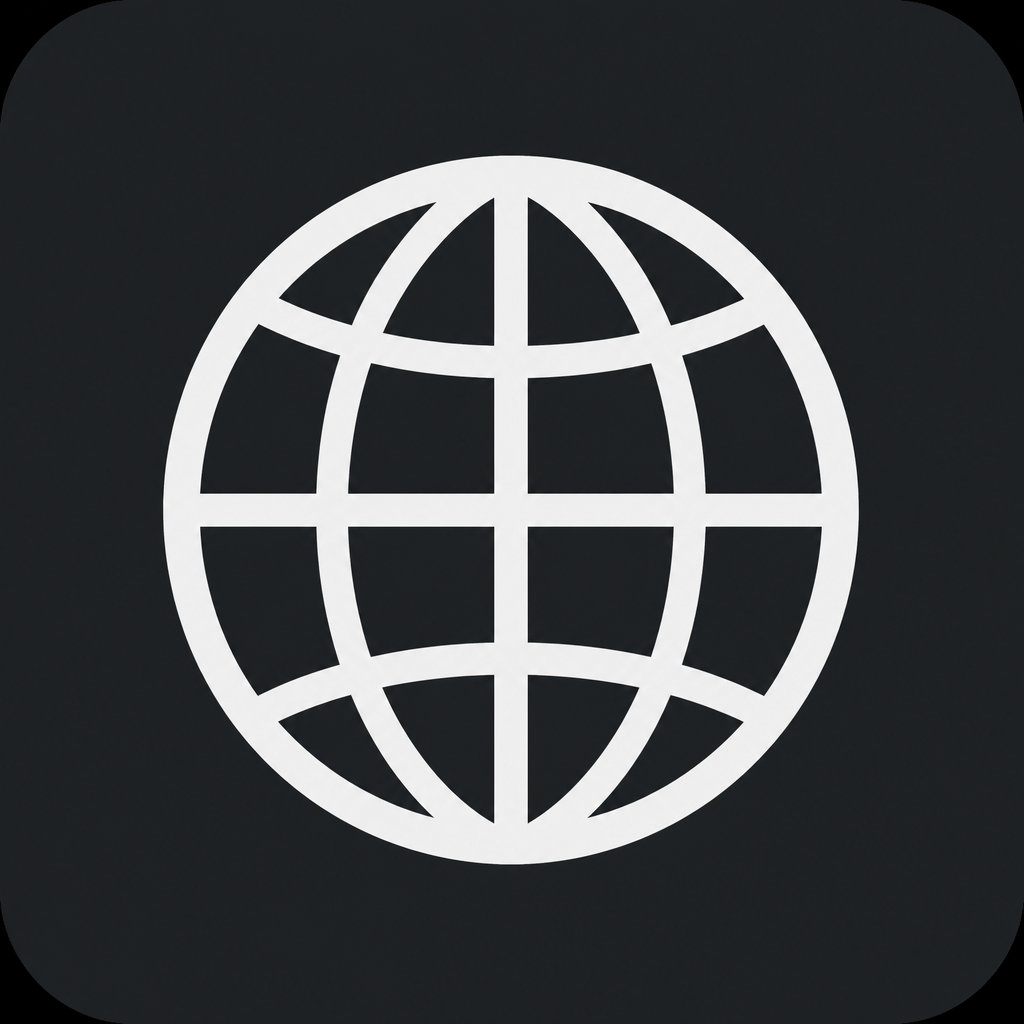
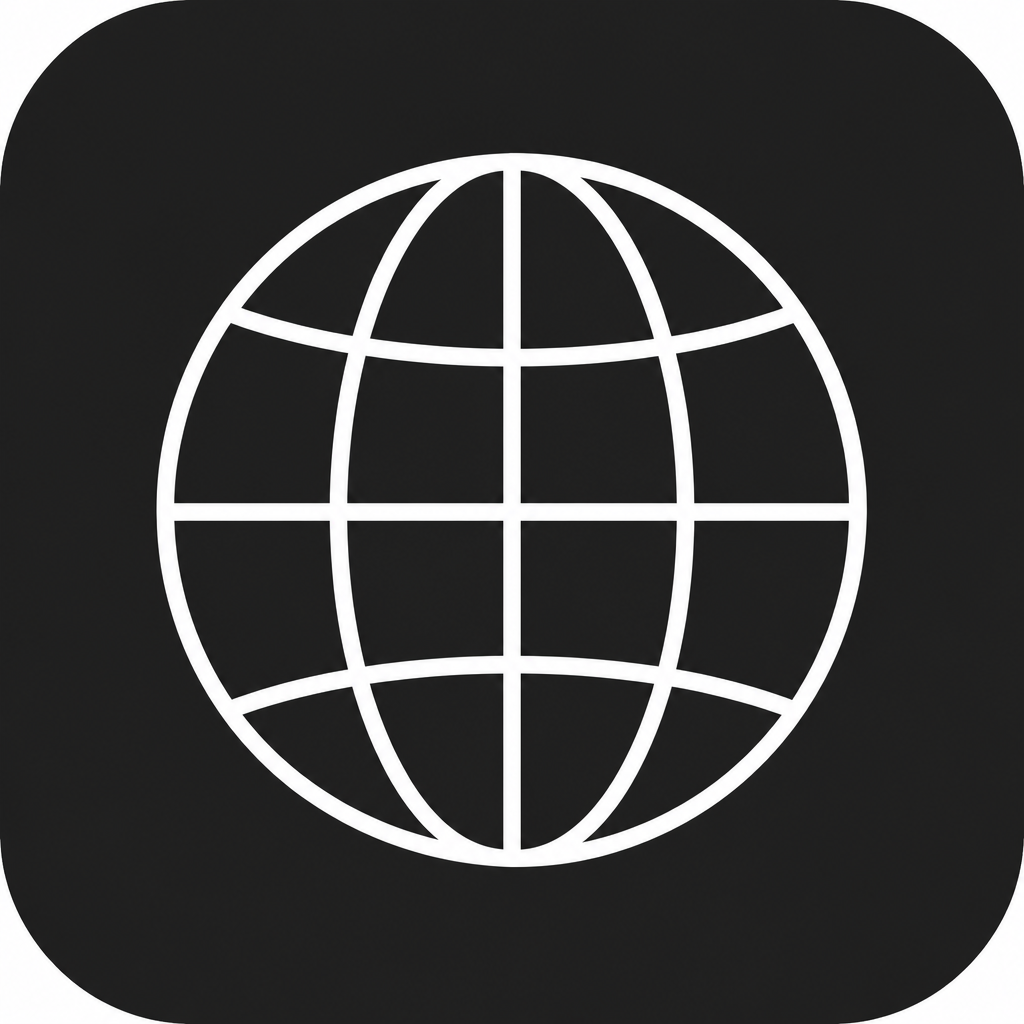
Align plugin publishing ID, docs, and preview.
Use reverse-DNS module/IPC IDs, rewrite the README for install/publish, and refresh the globe preview art.

diff --git a/BarWidget.qml b/BarWidget.qml
@@ -2,7 +2,7 @@ import QtQuick
 import qs.Commons
 import qs.Ui
 
-// Bar entry point for OmarchWeb. A web/globe icon with a small status dot that
+// Bar entry point for OmarchWeb. A globe icon with a small status dot that
 // turns accent-colored while any managed web service is running. Clicking
 // opens the control panel (services / databases / virtual hosts).
 BarWidget {
@@ -27,8 +27,6 @@ BarWidget {
 
   // Shape contract for shell summon/hide/toggle routing.
   readonly property bool opened: panelLoader.item ? panelLoader.item.opened === true : false
-  readonly property bool popoutSwitchClosing: panelLoader.item ? panelLoader.item.popoutSwitchClosing === true : false
-
   function open() {
     if (panelLoader.item && panelLoader.item.open) panelLoader.item.open()
   }
@@ -38,6 +36,7 @@ BarWidget {
   function toggle() {
     if (panelLoader.item && panelLoader.item.toggle) panelLoader.item.toggle()
   }
+  readonly property bool popoutSwitchClosing: panelLoader.item ? panelLoader.item.popoutSwitchClosing === true : false
   function closeForPopoutSwitch() {
     if (panelLoader.item) panelLoader.item.closeForPopoutSwitch()
   }
@@ -64,10 +63,10 @@ BarWidget {
     anchors.fill: parent
     bar: root.bar
     text: ""
-    tooltipText: "OmarchWeb"
     slotSize: Style.bar.statusSlot
     active: root.anyRunning
     useActiveColor: true
+    tooltipText: "OmarchWeb"
 
     onPressed: function(b) {
       if (b === Qt.MiddleButton) root.refresh()

diff --git a/Panel.qml b/Panel.qml
@@ -8,8 +8,8 @@ import "Model.js" as Model
 
 Panel {
   id: root
-  moduleName: "giodc.omarchweb"
-  ipcTarget: "giodc.omarchweb"
+  moduleName: "io.github.giodc.omarchweb"
+  ipcTarget: "io.github.giodc.omarchweb"
   manageIpc: false
 
   property var anchorItem: null

diff --git a/README.md b/README.md
@@ -1,70 +1,92 @@
-# OmarchWeb — Omarchy web development control panel
+# OmarchWeb
 
-A native Omarchy bar plugin that manages your local web dev stack from the
-status bar: start/stop/restart services, create/delete databases, and add
-virtual hosts.
-
-## Features
-
-- **Services** — start / stop / restart PHP-FPM, MariaDB, Nginx (plus
-  PostgreSQL, Redis, and Mailpit if installed). Mailpit is an SMTP catcher
-  (port 1025) with a web UI on port 8025. Services are managed as systemd
-  units; privileged actions prompt through the desktop polkit agent (`pkexec`).
-- **MySQL / PostgreSQL** — separate tabs (shown only if that server is
-  installed) to list, create, and delete databases and app users. MySQL/MariaDB
-  uses the unix_socket account for the panel; create a password user for
-  WordPress and other apps (`localhost`). PostgreSQL uses peer auth for the
-  panel; password users connect at `127.0.0.1`.
-- **Virtual hosts** — add PHP, Laravel, WordPress, or Node Nginx vhosts and
-  remove them. WordPress vhosts download the latest release into the site
-  folder. Generated server blocks live under `/etc/nginx/sites-available|enabled`.
-- **One-shot setup** — installs and enables `php-fpm`, `mariadb`, `nginx`,
-  `composer`, and the Laravel installer when the stack is missing.
+A native Omarchy Quattro bar plugin for local web development: start/stop
+services, manage MySQL and PostgreSQL databases and users, and add Nginx
+virtual hosts (PHP, WordPress, Laravel, Node).
 
 ## Install
 
 ```sh
-omarchy plugin enable giodc.omarchweb right
+omarchy plugin add https://github.com/giodc/omarchweb.git --enable
 ```
 
-The plugin lives in `~/.config/omarchy/plugins/giodc.omarchweb/` (symlinked at
-`~/Documents/Development/Plugins/OmarchWeb`). Saving any file under the plugin
-folder hot-reloads it; if a change doesn't apply, run
-`omarchy-shell shell rescanPlugins`.
+Or from a local clone under `~/.config/omarchy/plugins/io.github.giodc.omarchweb/`:
 
-## Settings
+```sh
+omarchy plugin enable io.github.giodc.omarchweb right
+```
 
-Configured in the widget's own `shell.json` entry, or via
-`omarchy bar set giodc.omarchweb <key> <value>`:
+Saved edits hot-reload. If a change does not apply:
+
+```sh
+omarchy-shell shell rescanPlugins
+```
+
+## Usage
+
+Click the globe on the bar to open the panel. Escape closes it.
+
+- **Services** — install, start, stop, restart, or uninstall PHP-FPM, MariaDB,
+  Nginx, PostgreSQL, Redis, and Mailpit. Privileged actions use the desktop
+  polkit agent (`pkexec`).
+- **MySQL / PostgreSQL** — tabs appear when that server is installed. Create
+  and delete databases and password users for apps (e.g. WordPress).
+- **Vhosts** — add PHP, WordPress, Laravel, or Node sites. WordPress downloads
+  the latest release into the site folder.
+
+Default panel tab is **Services**. The bar widget defaults to the **right**
+section (`defaultSection`).
+
+## Configure
+
+```sh
+omarchy bar move io.github.giodc.omarchweb --section right
+omarchy bar set io.github.giodc.omarchweb refreshSeconds 30
+omarchy bar set io.github.giodc.omarchweb webRoot ~/Web
+omarchy bar set io.github.giodc.omarchweb nginxPort 80
+```
 
 | Key | Type | Default | Meaning |
 | --- | --- | --- | --- |
 | `refreshSeconds` | integer | 30 | How often to re-check service/db state while the panel is open |
-| `webRoot` | path | `~/Web` | Base folder where new vhosts/projects are created |
+| `webRoot` | path | `~/Web` | Base folder for new vhosts/projects |
 | `nginxPort` | integer | 80 | Listen port for generated virtual hosts |
+
+## Privileges
+
+Systemd control, package install/remove, nginx config, `/etc/hosts`, and some
+database grants run through `scripts/root.sh` via passwordless `sudo` when
+available, otherwise `pkexec`. The panel itself has no TTY, so password prompts
+use Omarchy’s polkit dialog.
 
 ## Backends
 
-The plugin shells out to scripts in `scripts/`:
+Scripts in `scripts/` (not invoked as a second Quickshell process):
 
-- `services.sh status|start|stop|restart <service>` — systemd unit control
-  (auto-detects system vs `--user` unit; system units go through `pkexec`).
-- `db.sh list|create|delete|exists|user-create|user-delete|grant` — MariaDB and
-  PostgreSQL database and app-user ops (`engine` is `mariadb` or `postgresql`).
-- `vhost.sh list|add|remove` — Nginx virtual host generation (one `pkexec`
-  prompt to write the site, update `/etc/hosts`, and reload nginx).
-- `setup.sh install|status` — one-shot stack installer.
-- `root.sh` — privileged helper used by the scripts above; not invoked from the panel directly.
+- `services.sh` — systemd status/start/stop/restart
+- `db.sh` — MariaDB and PostgreSQL databases and app users
+- `vhost.sh` — Nginx virtual hosts
+- `setup.sh` — install/uninstall stack packages (Mailpit via AUR + `pkexec`)
+- `root.sh` — allow-listed privileged helper
 
-Overridable via environment: `OMARCHWEB_SERVICES`, `OMARCHWEB_DB_BIN`,
+Environment overrides: `OMARCHWEB_SERVICES`, `OMARCHWEB_DB_BIN`,
 `OMARCHWEB_PG_BIN`, `OMARCHWEB_WEB_ROOT`, `OMARCHWEB_NGINX_DIR`,
-`OMARCHWEB_PORT`, `OMARCHWEB_FPM_SOCK`.
+`OMARCHWEB_PORT`, `OMARCHWEB_FPM_SOCK`, `OMARCHWEB_WP_URL`.
 
 ## IPC
 
-`IpcHandler` target `giodc.omarchweb` exposes `open`, `close`, `show`, `hide`,
-`toggle`:
+```sh
+omarchy-shell ipc call io.github.giodc.omarchweb toggle
+omarchy-shell shell summon io.github.giodc.omarchweb '{}'
+omarchy-shell shell hide io.github.giodc.omarchweb
+```
+
+## Remove
 
 ```sh
-omarchy-shell ipc call giodc.omarchweb toggle
+omarchy plugin remove io.github.giodc.omarchweb
 ```
+
+## License
+
+MIT — see [LICENSE](LICENSE).
